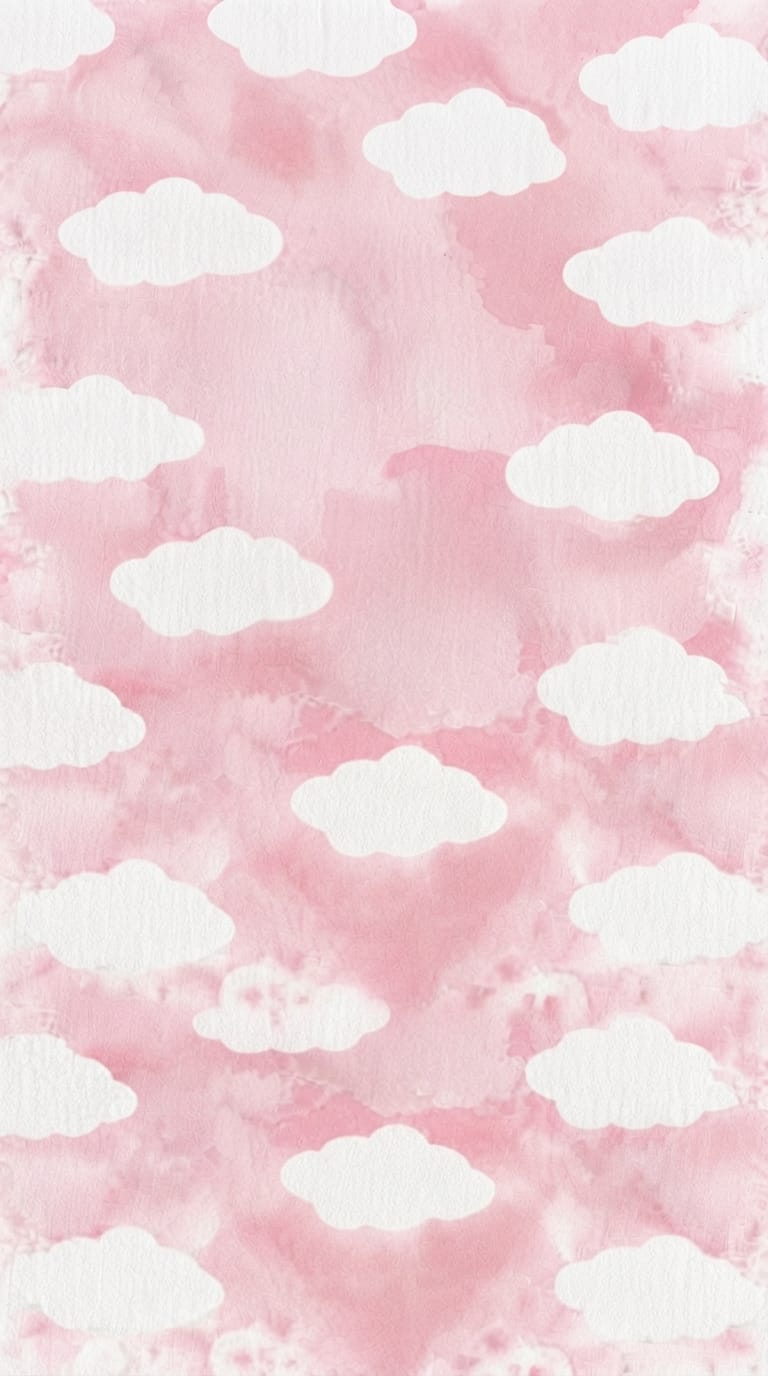
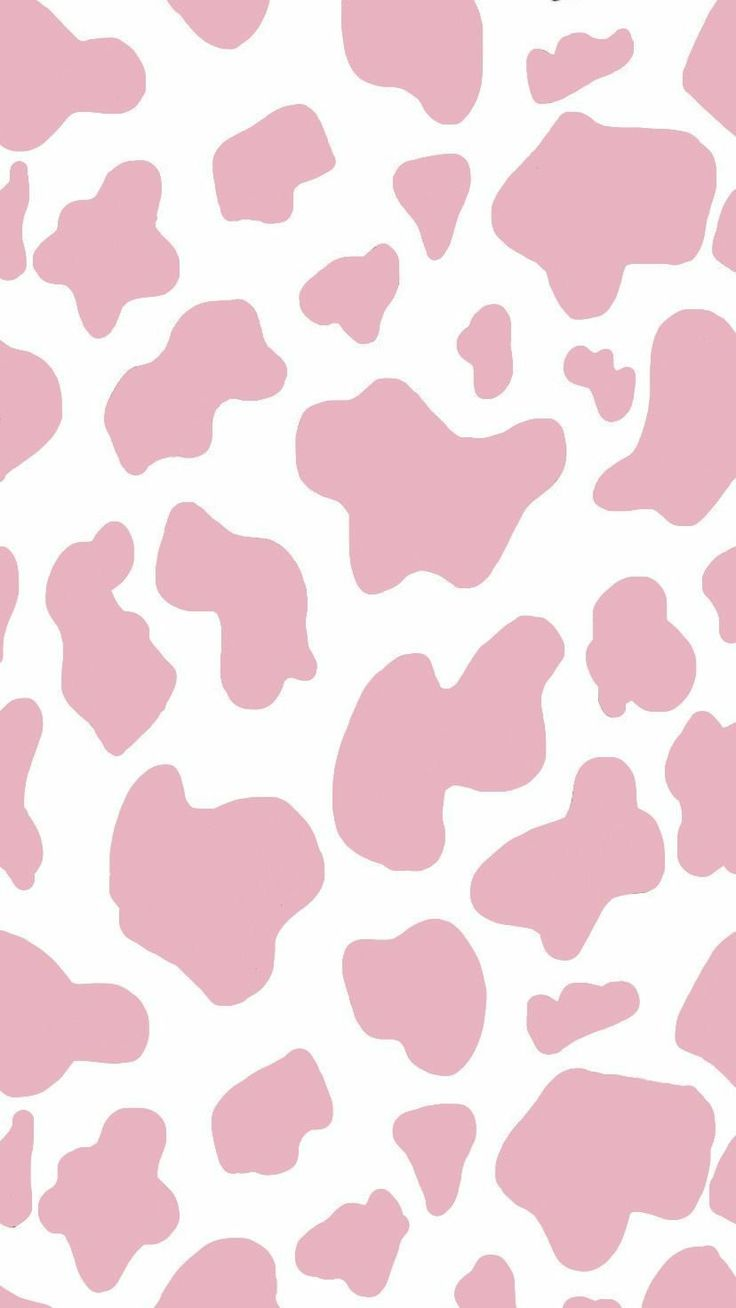
feat(og-image) ✨: Configure og-image

diff --git a/index.html b/index.html
@@ -17,21 +17,23 @@
   <!-- Open Graph / Facebook / WhatsApp -->
   <meta property="og:type" content="website" />
   <meta property="og:site_name" content="TuAmigoInvitaciones" />
+  <meta property="og:url" content="https://dara-carreon-cumple-9.netlify.app/" />
   <meta property="og:title" content="¡Estás Invitado al Cumpleaños de Dara! 🤠✨ (9 Años)" />
   <meta property="og:description" content="¡Ven a celebrar los 9 años de Dara en una fiesta al estilo Toy Story! Consulta detalles, ubicación y confirma tu asistencia." />
-  <meta property="og:image" content="/og-image.png" />
-  <meta property="og:image:secure_url" content="/og-image.png" />
-  <meta property="og:image:type" content="image/png" />
+  <meta property="og:image" content="https://dara-carreon-cumple-9.netlify.app/og-image.jpg" />
+  <meta property="og:image:secure_url" content="https://dara-carreon-cumple-9.netlify.app/og-image.jpg" />
+  <meta property="og:image:type" content="image/jpeg" />
   <meta property="og:image:width" content="800" />
   <meta property="og:image:height" content="800" />
   <meta property="og:image:alt" content="Invitación de Cumpleaños de Dara Carreón - 9 Años" />
-  <link rel="image_src" href="/og-image.png" />
+  <link rel="image_src" href="https://dara-carreon-cumple-9.netlify.app/og-image.jpg" />
 
   <!-- Twitter -->
   <meta name="twitter:card" content="summary_large_image" />
+  <meta name="twitter:url" content="https://dara-carreon-cumple-9.netlify.app/" />
   <meta name="twitter:title" content="¡Estás Invitado al Cumpleaños de Dara! 🤠✨ (9 Años)" />
   <meta name="twitter:description" content="¡Ven a celebrar los 9 años de Dara en una fiesta al estilo Toy Story! Consulta detalles, ubicación y confirma tu asistencia." />
-  <meta name="twitter:image" content="/og-image.png" />
+  <meta name="twitter:image" content="https://dara-carreon-cumple-9.netlify.app/og-image.jpg" />
 </head>
 
 <body>
